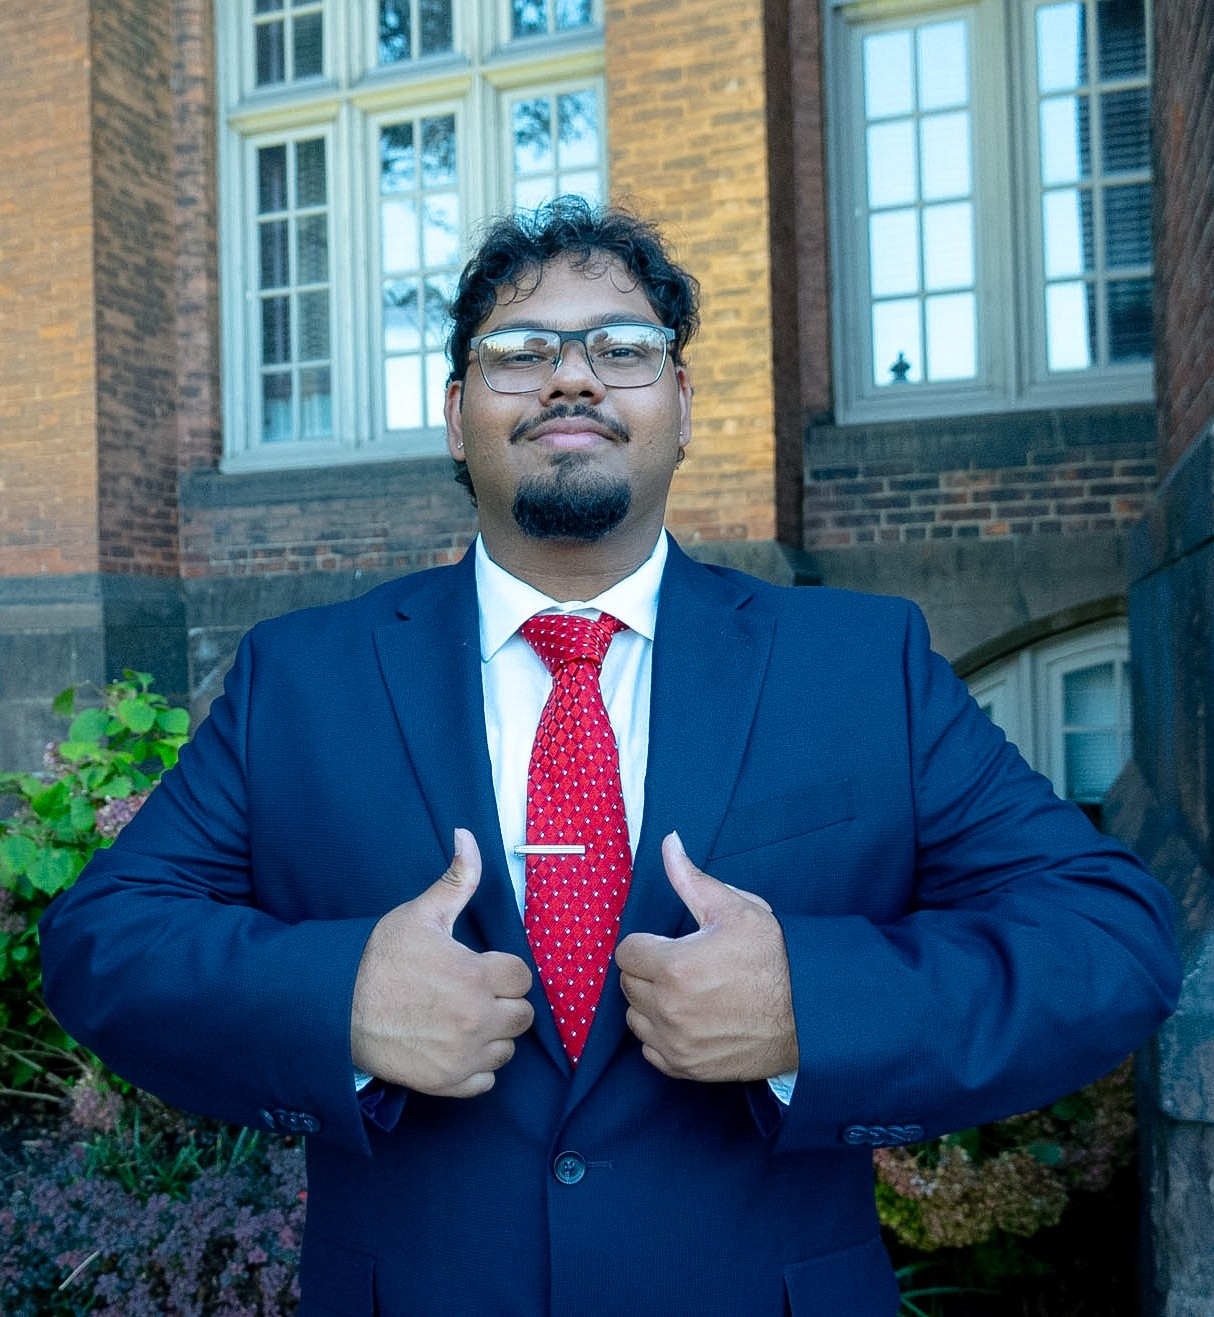
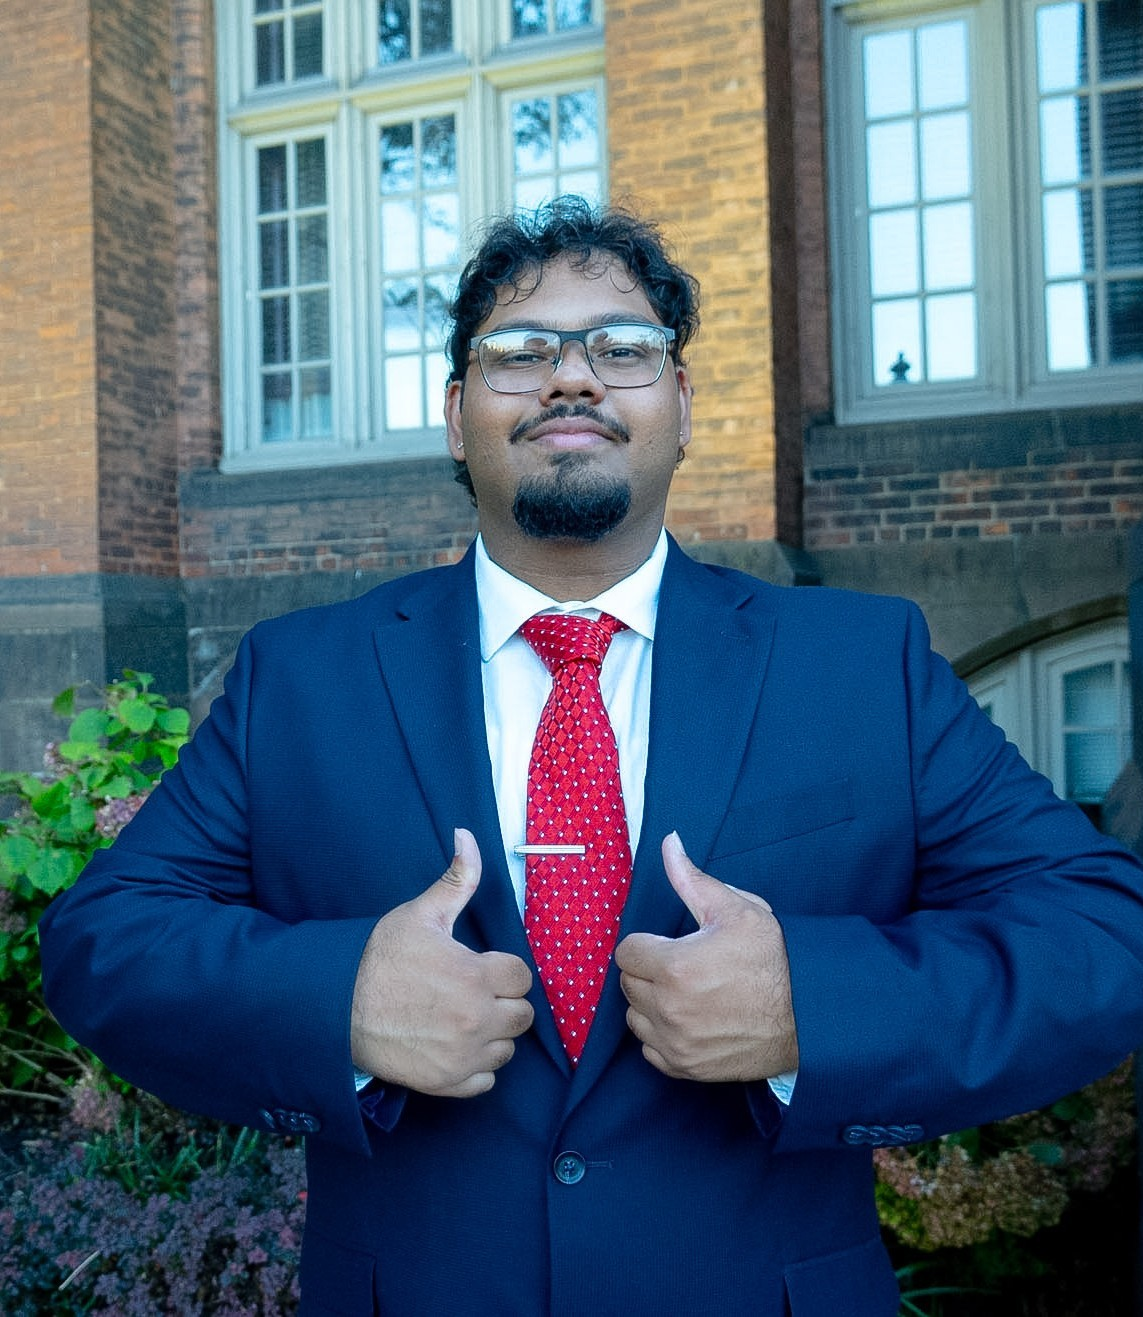
cropped Eboard pictures

diff --git a/screens/EBoardScreen.tsx b/screens/EBoardScreen.tsx
@@ -248,7 +248,7 @@ const createStyles = (colors: ThemePalette) => StyleSheet.create({
     backgroundColor: colors.background,
   },
   foreground: { flex: 1, backgroundColor: 'transparent' },
-  liquidLayer: { ...StyleSheet.absoluteFillObject },
+  liquidLayer: { ...StyleSheet.absoluteFill },
   liquidOrb: { position: 'absolute', borderRadius: 999 },
   liquidRed: { width: 320, height: 320, right: -145, top: 45, backgroundColor: 'rgba(225,32,68,0.27)' },
   liquidBlue: { width: 310, height: 310, left: -155, top: 390, backgroundColor: 'rgba(31,117,255,0.23)' },
